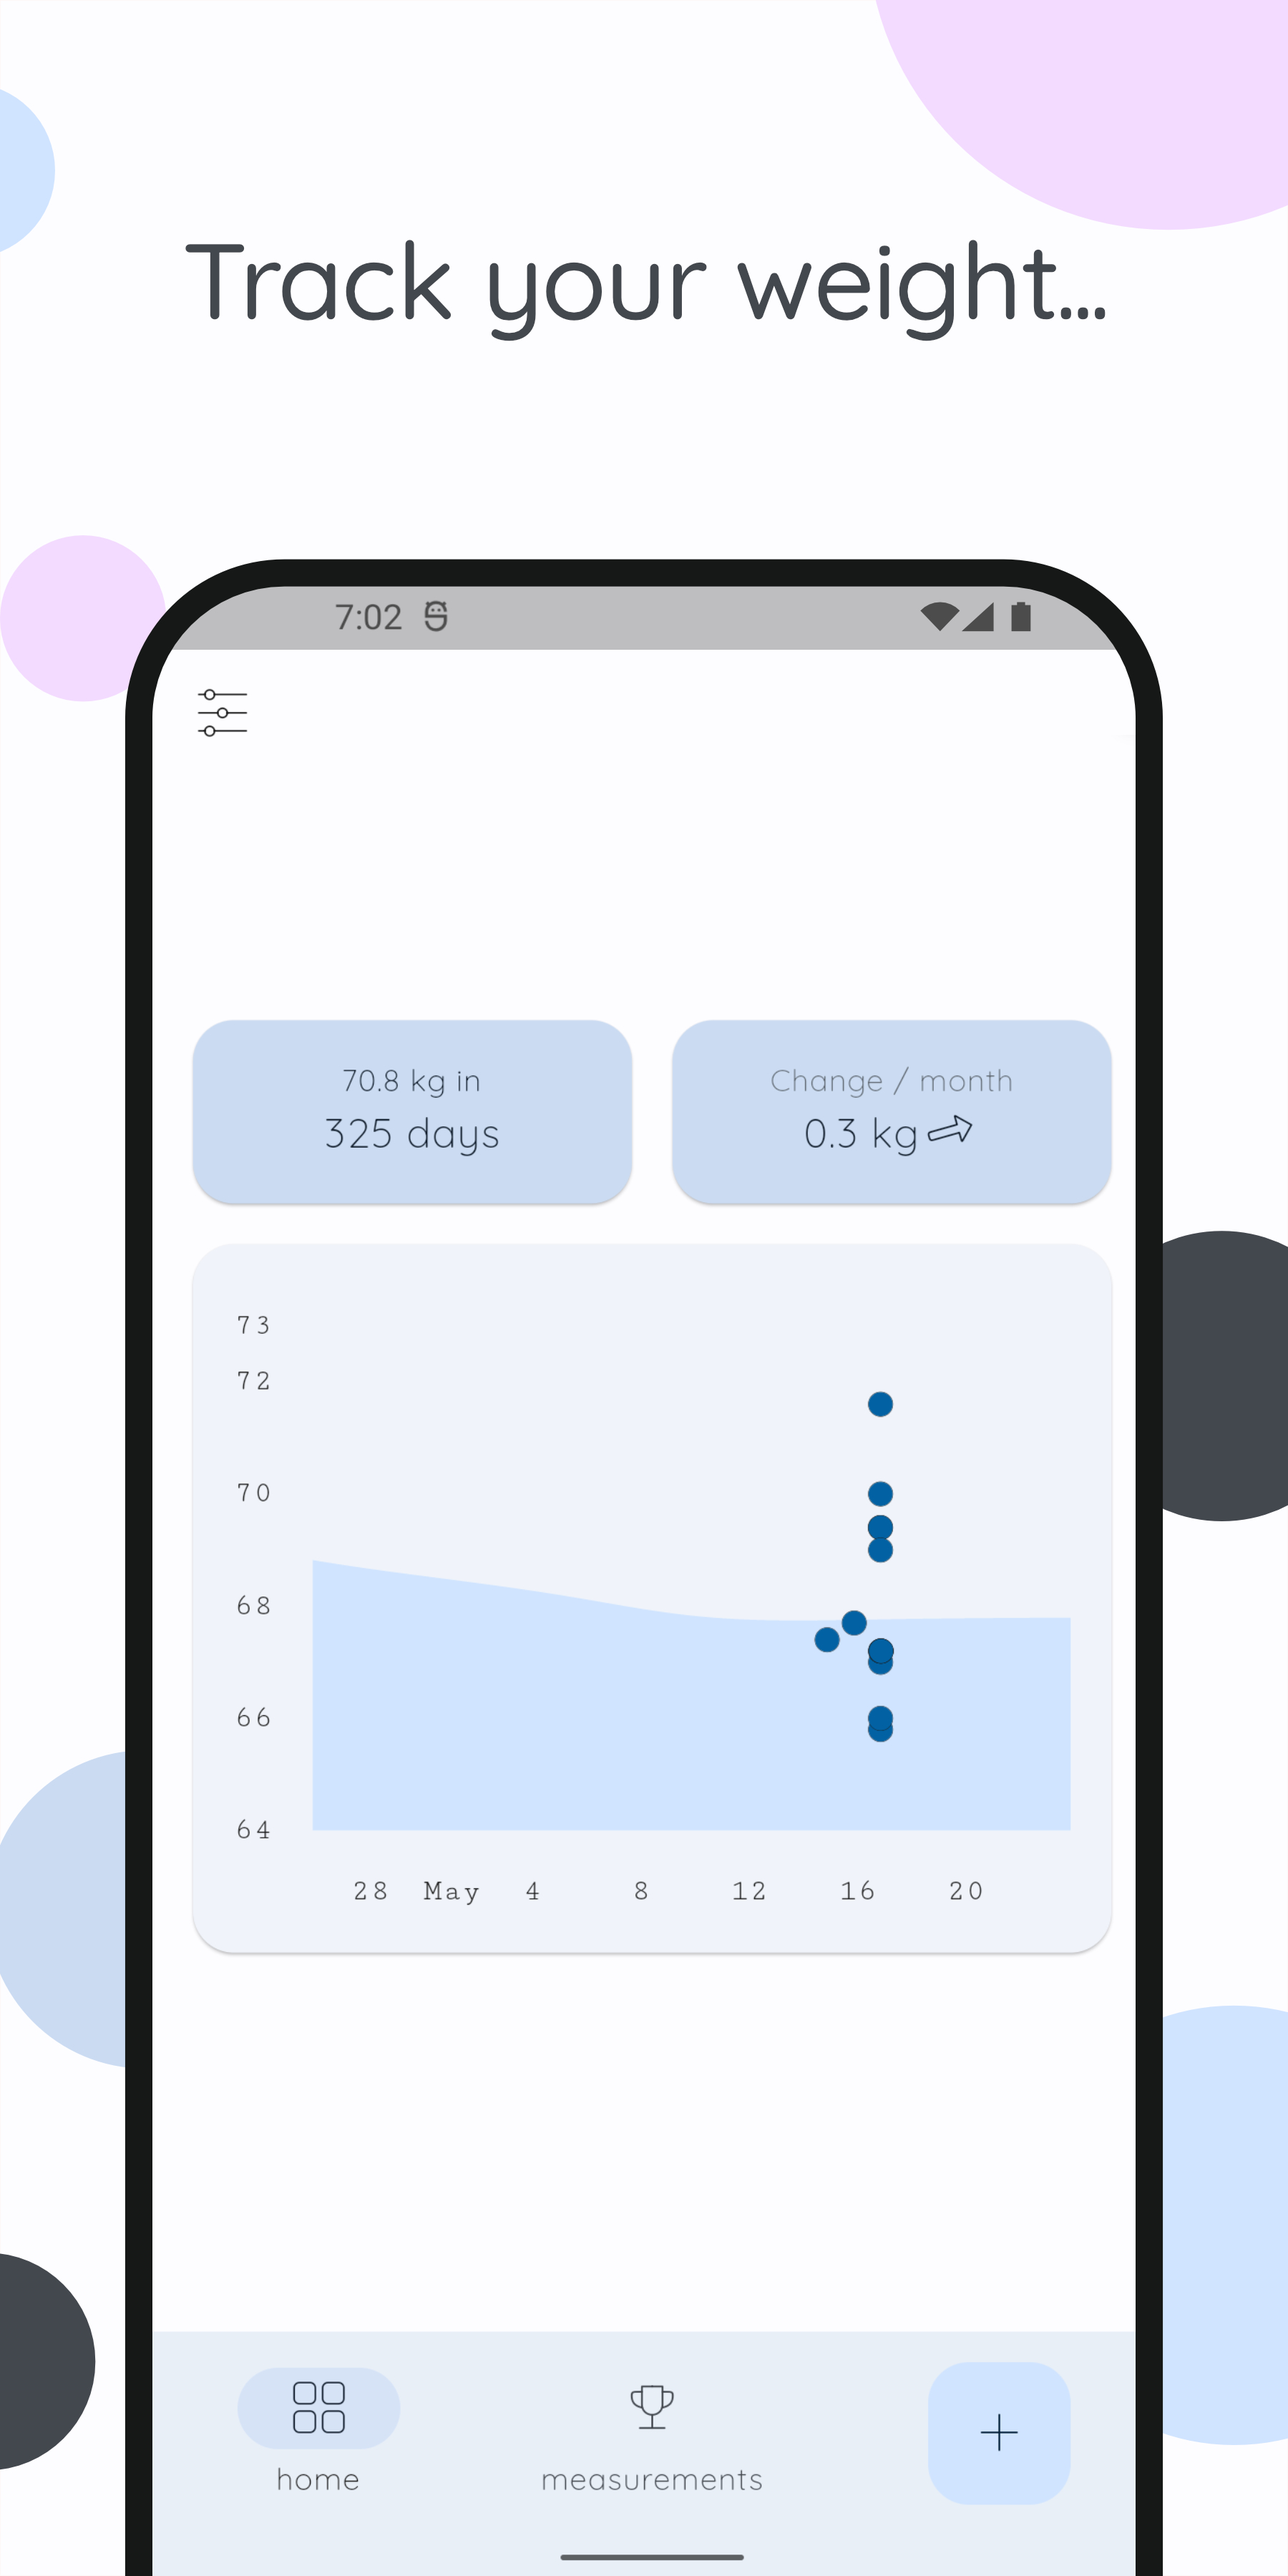
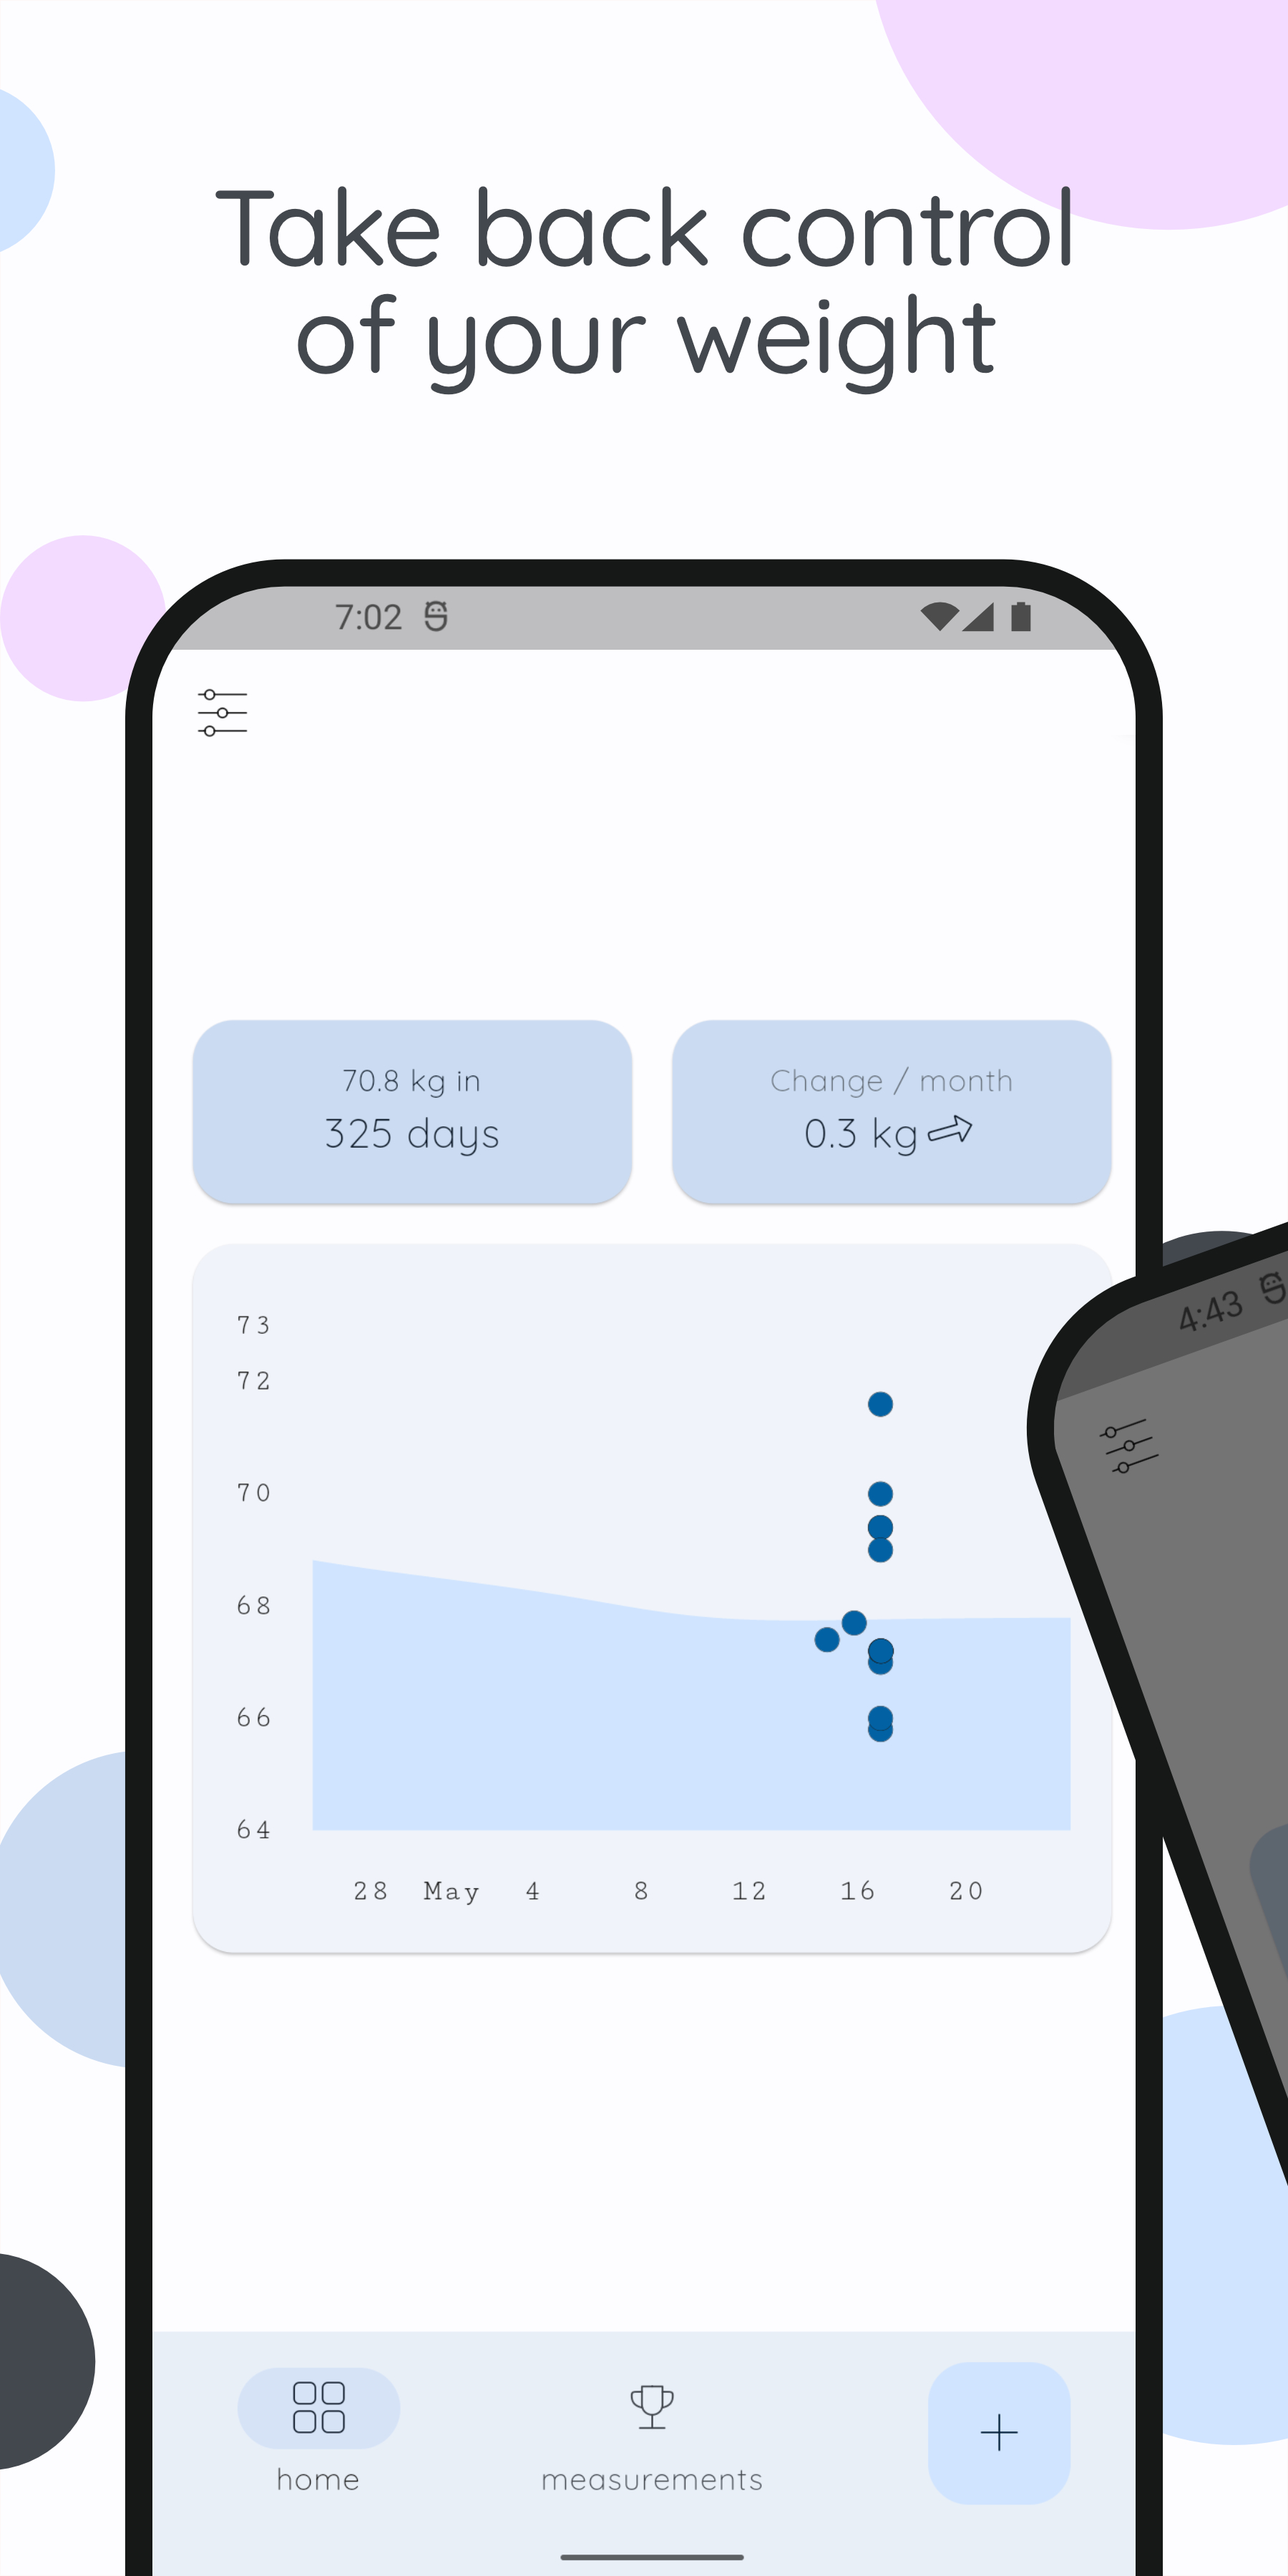
Update fastlane and readme

Changed region(s): [[0.7778, 0.4667, 1.0, 0.8711], [0.1556, 0.0622, 0.84, 0.1556]]

diff --git a/README.md b/README.md
@@ -1,89 +1,65 @@
-# trale
+<div align="center">
+    <img src="fastlane/metadata/android/en-US/images/featureGraphic.jpg" />
+</div>
 
-Trale - an android app to track your weight.
+# trale – a simple body weight diary app respecting your privacy.
 
-## Getting started
+This simplistic, material design app is perfectly suited for locking your
+weight. Whether you want to gain or lose weight, this app is the perfect
+companion to reach your optimal weight.
 
-To make it easy for you to get started with GitLab, here's a list of recommended next steps.
+Join our community today to trace yourself 🐺🤸♀🏋♀🧘♂🏆🥇
 
-Already a pro? Just edit this README.md and make it your own. Want to make it easy? [Use the template at the bottom](#editing-this-readme)!
+[[_TOC_]]
 
-## Add your files
+## Why trale?
+	🐺 Truly FREE: No annoying advertising no permission
+	🐺 Modern appearance using MATERIAL DESIGN 3
+	🐺 CUSTOMIZABLE: Many free custom themes, DARK MODE, and several UNITS. Tracking your PROGRESS
+	🐺 Track your PROGRESS with state-of-the-art data modeling 🧑💻
+	🐺 PRIVACY: Not just empty promises, it is fully <a href="https://gitlab.com/mobilemovement/trale">open-source</a>
 
-- [ ] [Create](https://gitlab.com/-/experiment/new_project_readme_content:bce6e53f35ca2b838f0472acf0b83cc0?https://docs.gitlab.com/ee/user/project/repository/web_editor.html#create-a-file) or [upload](https://gitlab.com/-/experiment/new_project_readme_content:bce6e53f35ca2b838f0472acf0b83cc0?https://docs.gitlab.com/ee/user/project/repository/web_editor.html#upload-a-file) files
-- [ ] [Add files using the command line](https://gitlab.com/-/experiment/new_project_readme_content:bce6e53f35ca2b838f0472acf0b83cc0?https://docs.gitlab.com/ee/gitlab-basics/add-file.html#add-a-file-using-the-command-line) or push an existing Git repository with the following command:
+## Upcoming features 🚀
+	🐺 Import and export of your measurements
+	🐺 Achievements and motivational messages
 
-```
-cd existing_repo
-git remote add origin https://gitlab.com/mobilemovement/trale.git
-git branch -M main
-git push -uf origin main
-```
+## Screenshots
+<div align="center">
+    <img width="250" src="fastlane/metadata/android/en-US/images/phoneScreenshots/1.jpg" />
+    <img width="250" src="fastlane/metadata/android/en-US/images/phoneScreenshots/2.jpg" />
+    <img width="250" src="fastlane/metadata/android/en-US/images/phoneScreenshots/3.jpg" />
+</div>
 
-## Integrate with your tools
+## FAQ
+##### I found a bug
+Please open a new <a href="https://gitlab.com/mobilemovement/adonify/-/issues">issue</a>.
 
-- [ ] [Set up project integrations](https://gitlab.com/-/experiment/new_project_readme_content:bce6e53f35ca2b838f0472acf0b83cc0?https://docs.gitlab.com/ee/user/project/integrations/)
+##### Will this app stay free
+This app will always be free on F-Droid with all features enabled. Once leaving beta, we will charge a small fee on google play store.
 
-## Collaborate with your team
+##### Could you please add feature X
+At the moment the app is in beta stage and there might be many bugs. Therefore, we focus on improving stability before integrating new features. Nevertheless, feel free to open a new <a href="https://gitlab.com/mobilemovement/adonify/-/issues">issue</a> or direclty a merge request so that we know which features are missing most.
 
-- [ ] [Invite team members and collaborators](https://gitlab.com/-/experiment/new_project_readme_content:bce6e53f35ca2b838f0472acf0b83cc0?https://docs.gitlab.com/ee/user/project/members/)
-- [ ] [Create a new merge request](https://gitlab.com/-/experiment/new_project_readme_content:bce6e53f35ca2b838f0472acf0b83cc0?https://docs.gitlab.com/ee/user/project/merge_requests/creating_merge_requests.html)
-- [ ] [Automatically close issues from merge requests](https://gitlab.com/-/experiment/new_project_readme_content:bce6e53f35ca2b838f0472acf0b83cc0?https://docs.gitlab.com/ee/user/project/issues/managing_issues.html#closing-issues-automatically)
-- [ ] [Automatically merge when pipeline succeeds](https://gitlab.com/-/experiment/new_project_readme_content:bce6e53f35ca2b838f0472acf0b83cc0?https://docs.gitlab.com/ee/user/project/merge_requests/merge_when_pipeline_succeeds.html)
+##### Will the app be translated to X
+At the current stage only a few languages are available. In the near feature we will add this project to weblate to encurage the community to translate the app to new languages.
+The database itself (or mainly due to our limited sqllite knowledge) is limited to a single language. But it is possible to create new exercises and workouts with a different language.
 
-## Test and Deploy
+##### Can I contribute
+For sure, that is the reason why we opened the source code. There are many ways you can help:
+- Implementing new functionality. If you are new to flutter you should first [get started](https://flutter.dev/docs/get-started/install)
+- Open issues and help us finding bugs or simply give feedback
+- or simply share the app with your friends :)
 
-Use the built-in continuous integration in GitLab.
 
-- [ ] [Get started with GitLab CI/CD](https://gitlab.com/-/experiment/new_project_readme_content:bce6e53f35ca2b838f0472acf0b83cc0?https://docs.gitlab.com/ee/ci/quick_start/index.html)
-- [ ] [Analyze your code for known vulnerabilities with Static Application Security Testing(SAST)](https://gitlab.com/-/experiment/new_project_readme_content:bce6e53f35ca2b838f0472acf0b83cc0?https://docs.gitlab.com/ee/user/application_security/sast/)
+## Disclaimer
+Anorexia is a serious disease. Especially due to the many negative examples in
+the social media, anorexia is increasingly a problem for society as a whole. In
+order to make our contribution to prevention, no target weight below 50 kg /
+110 lb / 7.9 st is possible.
 
-***
-
-# Editing this README
-
-When you're ready to make this README your own, just edit this file and use the handy template below (or feel free to structure it however you want - this is just a starting point!).  Thank you to [makeareadme.com](https://gitlab.com/-/experiment/new_project_readme_content:bce6e53f35ca2b838f0472acf0b83cc0?https://www.makeareadme.com/) for this template.
-
-## Suggestions for a good README
-Every project is different, so consider which of these sections apply to yours. The sections used in the template are suggestions for most open source projects. Also keep in mind that while a README can be too long and detailed, too long is better than too short. If you think your README is too long, consider utilizing another form of documentation rather than cutting out information.
-
-## Name
-Choose a self-explaining name for your project.
-
-## Description
-Let people know what your project can do specifically. Provide context and add a link to any reference visitors might be unfamiliar with. A list of Features or a Background subsection can also be added here. If there are alternatives to your project, this is a good place to list differentiating factors.
-
-## Badges
-On some READMEs, you may see small images that convey metadata, such as whether or not all the tests are passing for the project. You can use Shields to add some to your README. Many services also have instructions for adding a badge.
-
-## Visuals
-Depending on what you are making, it can be a good idea to include screenshots or even a video (you'll frequently see GIFs rather than actual videos). Tools like ttygif can help, but check out Asciinema for a more sophisticated method.
-
-## Installation
-Within a particular ecosystem, there may be a common way of installing things, such as using Yarn, NuGet, or Homebrew. However, consider the possibility that whoever is reading your README is a novice and would like more guidance. Listing specific steps helps remove ambiguity and gets people to using your project as quickly as possible. If it only runs in a specific context like a particular programming language version or operating system or has dependencies that have to be installed manually, also add a Requirements subsection.
-
-## Usage
-Use examples liberally, and show the expected output if you can. It's helpful to have inline the smallest example of usage that you can demonstrate, while providing links to more sophisticated examples if they are too long to reasonably include in the README.
-
-## Support
-Tell people where they can go to for help. It can be any combination of an issue tracker, a chat room, an email address, etc.
-
-## Roadmap
-If you have ideas for releases in the future, it is a good idea to list them in the README.
-
-## Contributing
-State if you are open to contributions and what your requirements are for accepting them.
-
-For people who want to make changes to your project, it's helpful to have some documentation on how to get started. Perhaps there is a script that they should run or some environment variables that they need to set. Make these steps explicit. These instructions could also be useful to your future self.
-
-You can also document commands to lint the code or run tests. These steps help to ensure high code quality and reduce the likelihood that the changes inadvertently break something. Having instructions for running tests is especially helpful if it requires external setup, such as starting a Selenium server for testing in a browser.
-
-## Authors and acknowledgment
-Show your appreciation to those who have contributed to the project.
+This app is still in <b>beta</b> stage and may contain bugs. It should work
+best with FHD/FHD+ resolution. If you encounter a bug or if you are missing a
+feature, please <a href="https://gitlab.com/mobilemovement/adonify/-/issues">open a new issue</a>.
 
 ## License
-For open source projects, say how it is licensed.
-
-## Project status
-If you have run out of energy or time for your project, put a note at the top of the README saying that development has slowed down or stopped completely. Someone may choose to fork your project or volunteer to step in as a maintainer or owner, allowing your project to keep going. You can also make an explicit request for maintainers.
-
+The source code is licensed under the [Apache License 2.0](http://choosealicense.com/licenses/apache-2.0/).
